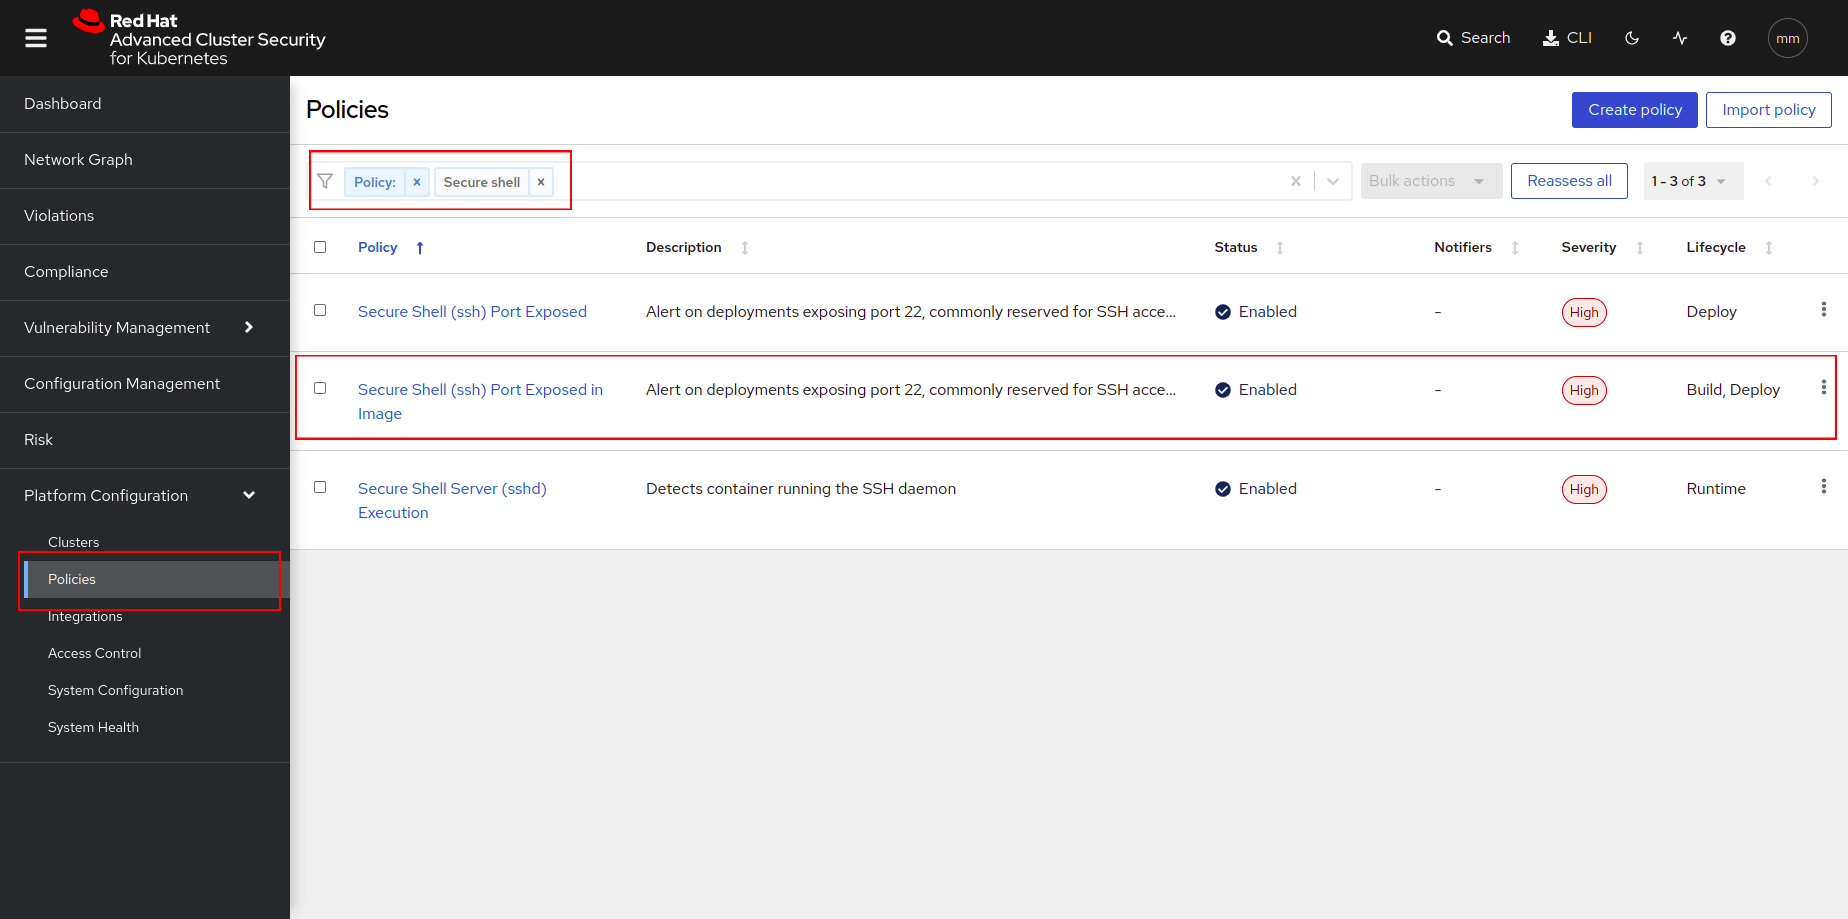
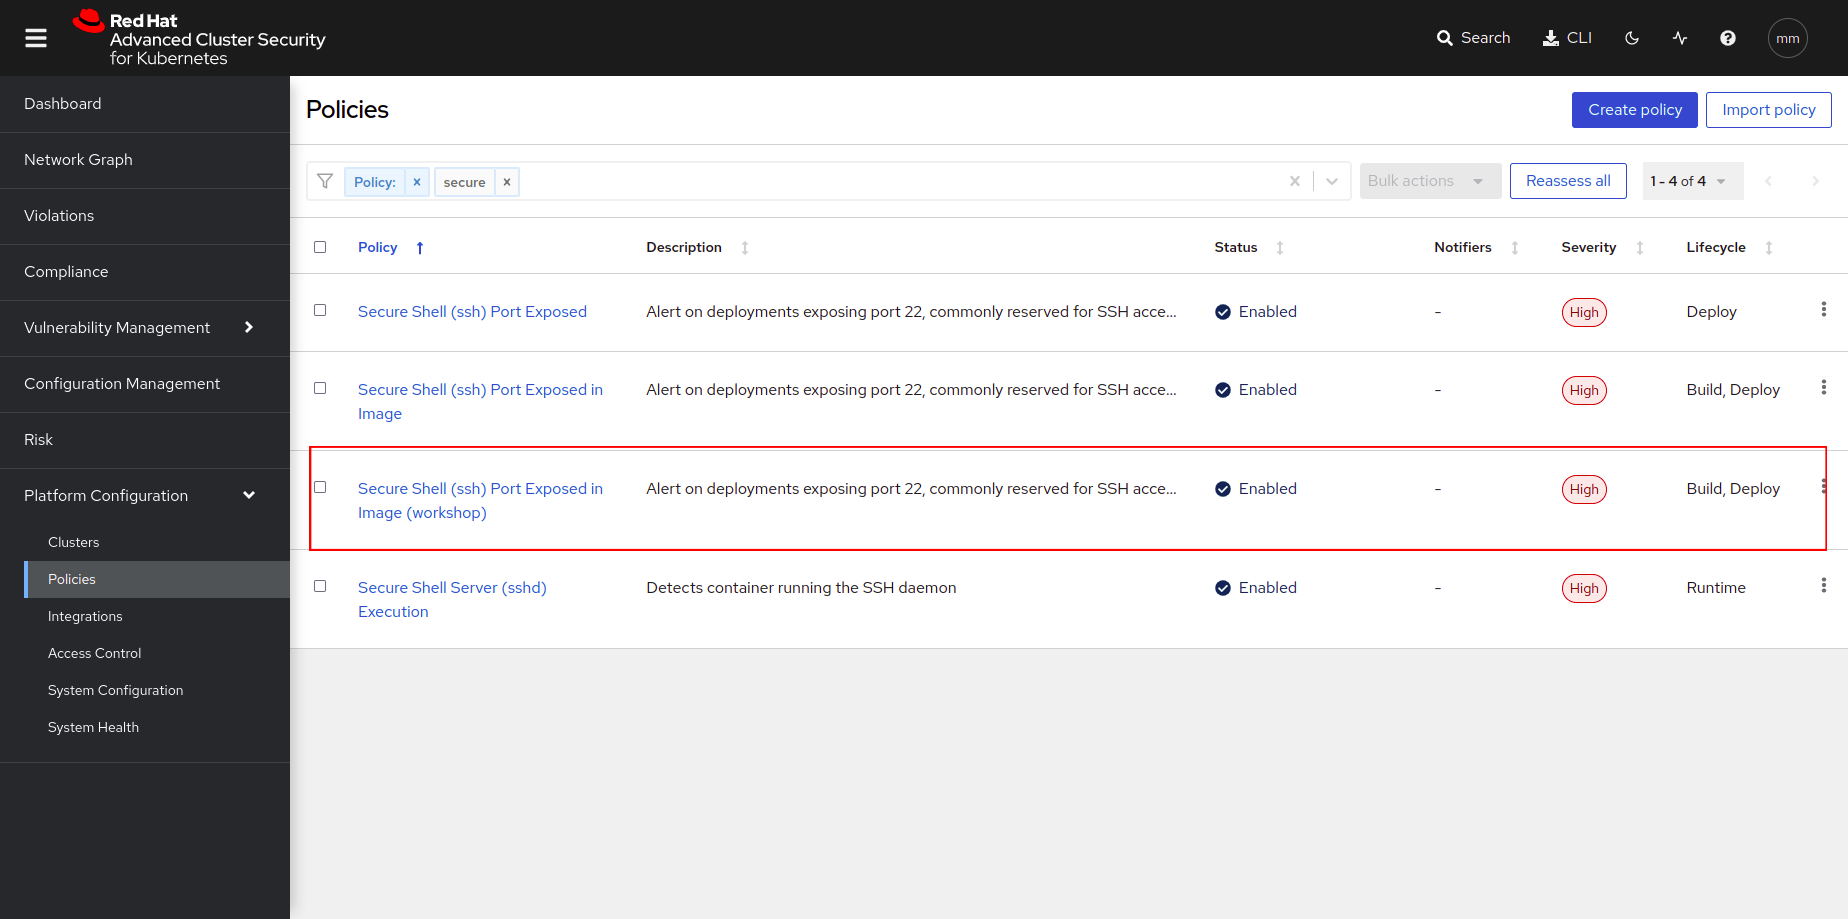
Update Image Security

diff --git a/docs/3-revenge-of-the-automated-testing/7b-tekton.md b/docs/3-revenge-of-the-automated-testing/7b-tekton.md
@@ -127,13 +127,9 @@ Let's run through a scenario where we break/fix the build using a build policy v
 
 4. This should now fail on the **image-scan/rox-image-check** task.  
 
-    ## TODO Replace Screenshot
-    ![images/acs-image-fail.png](images/acs-image-fail.png)
+    ![images/rox-image-check-ssh-fail.png](images/rox-image-check-ssh-fail.png)
+    ![images/rox-image-check-ssh-fail-logs](images/rox-image-check-ssh-fail-logs.png)
 
-5. Back in ACS we can also see the failure in the *Violations* view.  
-
-    ![images/acs-violations.png](images/acs-violations.png)
-
-6. Remove the `EXPOSE 22` from the `Dockerfile` in the same merge request branch and the pipeline will succeed.
+5. Remove the `EXPOSE 22` from the `Dockerfile` in the same merge request branch and the pipeline will succeed.
 
 🪄🪄 Observe the **`stakater-nordmart-review`** pipeline running successfully again 🪄🪄

diff --git a/docs/3-revenge-of-the-automated-testing/7-image-security.md b/docs/3-revenge-of-the-automated-testing/7-image-security.md
@@ -41,7 +41,7 @@ Below is the URL to ACS (Available on Forecastle UI):
 
     ![central-RHACS-login](./images/central-rhacs-login.png)
 
-2. Browse to the `Platform Configuration` > `Policies` view. Type in and select `Policy` and then `secure shell`, select the `Secure Shell (ssh) Port Exposed in Image` policy.
+2. Browse to the `Platform Configuration` > `Policies` view. Type in and select `Policy` and then `secure shell`, select the `Secure Shell (ssh) Port Exposed in Image (workshop)` policy.
 
     ![images/central-RHACS-policy.png](images/central-rhacs-policy.png)
 
